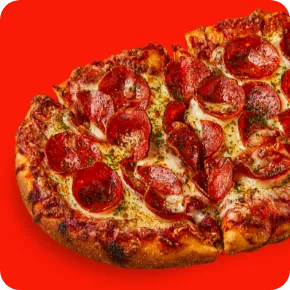
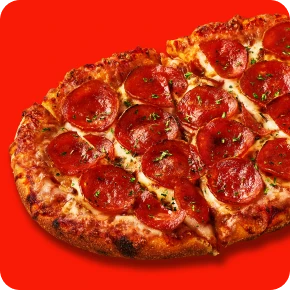
페퍼로니 앤 포테이토 반반피자 / 매니악 페퍼로니 / 오리지널 페퍼로니 교체

diff --git a/pages/menu/[[...index]].tsx b/pages/menu/[[...index]].tsx
@@ -214,7 +214,7 @@ function Menu({ seo }: { seo: object }) {
                   <img
                     src={
                       categoryNav === -1
-                        ? `https://dev-gopizza-homepage.s3.ap-northeast-2.amazonaws.com/ui/images/menu/pizza/img_item${i + 1}x2.webp?v=2`
+                        ? `https://dev-gopizza-homepage.s3.ap-northeast-2.amazonaws.com/ui/images/menu/pizza/img_item${i + 1}x2.webp?v=3`
                         : `https://dev-gopizza-homepage.s3.ap-northeast-2.amazonaws.com/ui/images/menu${router.asPath.split("/menu")[1]}/img_item${i + 1}x2.webp?v=3`
                     }
                     alt="메뉴배경이미지"

diff --git a/pages/menu/detail/[idx].tsx b/pages/menu/detail/[idx].tsx
@@ -130,7 +130,7 @@ function DetailView({ seo }: any) {
             <Info>
               <div {...handlers} className={`thumb ${currentMenu?.badge === "best" ? "badge best" : currentMenu?.badge === "new" ? "badge new" : ""}`}>
                 <img
-                  src={`https://dev-gopizza-homepage.s3.ap-northeast-2.amazonaws.com/ui/images/menu/detail/${currentMenu?.category}/${idx}x2.webp?v=3`}
+                  src={`https://dev-gopizza-homepage.s3.ap-northeast-2.amazonaws.com/ui/images/menu/detail/${currentMenu?.category}/${idx}x2.webp?v=5`}
                   alt={currentMenu?.name}
                 />
               </div>
